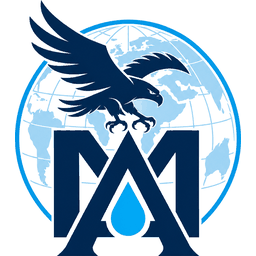
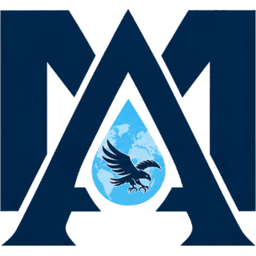
Zamjena logotipa: M/A s kapi, globusom i orlom (#15)
Novi logo na svim mjestima weba i aplikacije (znak, puni logo, ikone,
favicon). Service worker v3 da se ikone osvježe.

Claude-Session: https://claude.ai/code/session_01ApPbRmP36vnEywpVfX2z1K

diff --git a/public/sw.js b/public/sw.js
@@ -2,7 +2,7 @@
 // Stranice: uvijek najnovija verzija s mreže; spremljena kopija samo kad nema veze.
 // Datoteke iz /assets/ imaju jedinstveno ime po verziji, pa se smiju čuvati.
 // Supabase, slike proizvoda i ostali vanjski zahtjevi ne prolaze kroz ovu predmemoriju.
-const CACHE = 'poolcare-v2';
+const CACHE = 'poolcare-v3';
 const SHELL = ['/', '/manifest.webmanifest', '/icons/icon-192.png', '/icons/icon-512.png', '/brand/favicon-64.png', '/brand/mondo-acqua-znak.png'];
 
 self.addEventListener('install', (event) => {

diff --git a/src/app/components/MondoLogo.tsx b/src/app/components/MondoLogo.tsx
@@ -1,4 +1,4 @@
-// Logo Mondo Acqua (orao, globus, M/A s kapi). Znak je nacrtan za svijetlu podlogu,
+// Logo Mondo Acqua (M/A, u kapi globus i orao). Znak je nacrtan za svijetlu podlogu,
 // pa na tamnim zaglavljima stoji na bijeloj pločici.
 export const MONDO_ZNAK = "/brand/mondo-acqua-znak.png";
 
